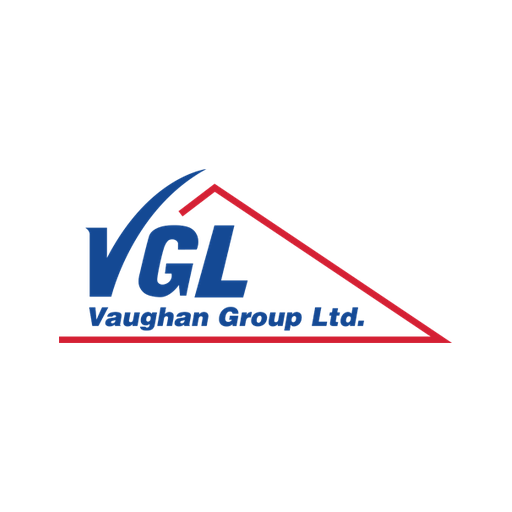
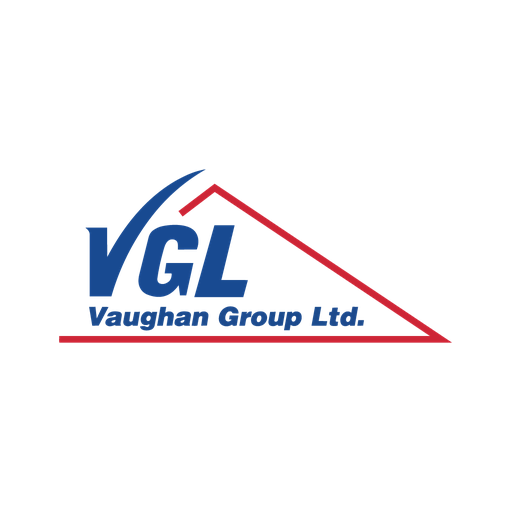
Crystal Lake and Vaughan from Diego's pack 03, add Danella; not published yet

Changed region(s): [[0.125, 0.5938, 0.8438, 0.6875], [0.3125, 0.5312, 0.3438, 0.5625], [0.1875, 0.4688, 0.2188, 0.5]]

diff --git a/DEMO updated/cinc-connect-demo-2026-updated/tenants/crystallake/config.js b/DEMO updated/cinc-connect-demo-2026-updated/tenants/crystallake/config.js
@@ -1,18 +1,20 @@
 // Crystal Lake Community Management prospect demo → served at /crystallake
 // Built by `vite build --mode crystallake` (see vite.config.js). Source code is never
 // edited: every string below is swapped at build time in src/**/*.{js,jsx,css}.
-// No Diego pack: logo + colors taken from the prospect's site (20/11/2026).
+// Logo + colors from Diego's pack (Custom Connect Demos 03, 20/11/2026); brand site: crystallakecm.com (Bend, OR).
+// DARK theme (Diego): page #333333, cards #474747, text #FFFFFF, accent sage #6C9E8F. Same dark
+// template as /cummings: theme variables are swapped one by one so fixed surfaces keep working.
 
-const PRIMARY    = '#005339'   // titles, icons, buttons
-const CARD       = '#005339'   // payment card
-const NAV_BAR    = '#FFFFFF'
-const NAV_ICON   = '#313131'
-const NAV_ACTIVE = '#005339'
+const PRIMARY    = '#6C9E8F'   // titles, icons, buttons (sage)
+const CARD       = '#4F7D70'   // payment card
+const NAV_BAR    = '#2A2A2A'
+const NAV_ICON   = '#FFFFFF'
+const NAV_ACTIVE = '#6C9E8F'
 
 export default {
   id: 'crystallake',
   title: 'Crystal Lake Community Management · Connect Demo',
-  themeColor: '#FFFFFF',
+  themeColor: '#333333',
   favicon: '/tenants/crystallake/icon.png',
 
   assets: {
@@ -61,20 +63,36 @@ export default {
     // HOA avatar
     ['/images/cinc-icon.png', '/tenants/crystallake/icon.png'],
 
-    // CINC palette → Crystal Lake Community Management palette (theme presets, :root defaults, fixed surfaces)
-    [/#006A52/gi, PRIMARY],
-    [/#00553F/gi, '#003F2B'],
-    [/#002D28/gi, PRIMARY],
-    [/#171B19/gi, '#313131'],
-    [/#E9EEEA/gi, '#FFFFFF'],
-    [/#D9E9E3/gi, '#DCEBE5'],
-    [/#CBCACD/gi, '#E2E2E2'],
-    // Cards: soft mint tint of the primary
-    ["'--res-bg2':    '#FFFFFF'", "'--res-bg2':    '#F1F6F4'"],
-    ['--res-bg2:    #FFFFFF;', '--res-bg2:    #F1F6F4;'],
-    // CSS filter that tints <img> icons Evergreen → primary
+    // CINC palette → Crystal Lake DARK palette
+    // Theme variables (index.css :root defaults + theme.js light preset)
+    ['--res-bg1:    #E9EEEA;', '--res-bg1:    #333333;'],
+    ['--res-bg2:    #FFFFFF;', '--res-bg2:    #474747;'],
+    ['--res-text:   #171B19;', '--res-text:   #FFFFFF;'],
+    ['--res-accent: #006A52;', '--res-accent: #6C9E8F;'],
+    ['--res-border: #CBCACD;', '--res-border: rgba(255,255,255,0.18);'],
+    // Global text color (login and anything rendered outside .resident-mode)
+    ['--text:         #171B19;', '--text:         #FFFFFF;'],
+    ["'--res-bg1':    '#E9EEEA'", "'--res-bg1':    '#333333'"],
+    ["'--res-bg2':    '#FFFFFF'", "'--res-bg2':    '#474747'"],
+    ["'--res-text':   '#171B19'", "'--res-text':   '#FFFFFF'"],
+    ["'--res-accent': '#006A52'", "'--res-accent': '#6C9E8F'"],
+    ["'--res-border': '#CBCACD'", "'--res-border': 'rgba(255,255,255,0.18)'"],
+    // Remaining hard-coded CINC colors: page bg → charcoal, fixed brand surfaces (PDF headers,
+    // illustrated cards) → deep sage, mint tints → soft sage, deep green logo color → charcoal
+    [/#E9EEEA/gi, '#333333'],
+    [/#006A52/gi, '#4F7D70'],
+    [/#00553F/gi, '#3E6458'],
+    [/#002D28/gi, '#333333'],
+    [/#D9E9E3/gi, '#E2EEEA'],
+    [/#CBCACD/gi, '#5A5A5A'],
+    // Dark theme contrast: secondary text is white at 30-60% → 75% (on #474747 cards
+    // 45% white is too faint); alert reds → light pink so they read on charcoal
+    [/color-mix\(in srgb, var\(--text\) (3\d|4\d|5\d|60)%, transparent\)/g, 'color-mix(in srgb, var(--text) 75%, transparent)'],
+    [/#E05C5C/gi, '#FFB4B4'],
+    [/#FF6B62/gi, '#FFB4B4'],
+    // CSS filter that tints <img> icons Evergreen → sage accent
     ['brightness(0) saturate(100%) invert(27%) sepia(87%) saturate(1530%) hue-rotate(143deg) brightness(93%) contrast(101%)',
-     'brightness(0) saturate(100%) invert(23%) sepia(13%) saturate(4306%) hue-rotate(122deg) brightness(100%) contrast(104%)'],
+     'brightness(0) saturate(100%) invert(58%) sepia(22%) saturate(463%) hue-rotate(111deg) brightness(96%) contrast(86%)'],
   ],
 
   // Appended to src/index.css
@@ -86,18 +104,18 @@ export default {
 .phone-frame .resident-nav__label { color: ${NAV_ICON}; }
 .phone-frame .resident-nav__item--active .resident-nav__icon { background: ${NAV_ACTIVE}; }
 .phone-frame .resident-nav__item--active .resident-nav__icon svg { color: #FFFFFF; }
-.phone-frame .resident-nav__item--active .resident-nav__label { color: #313131; }
+.phone-frame .resident-nav__item--active .resident-nav__label { color: #FFFFFF; }
 
 /* Payment card */
 .phone-frame .acct-card { background: ${CARD}; }
 
 body .layout-toggle { color: #FFFFFF; border-color: ${PRIMARY}; background: #1E1E1E; }
-body .layout-toggle:hover { border-color: #FFFFFF; }
+body .layout-toggle:hover { border-color: ${PRIMARY}; }
 
 .login-screen .login-logo-lockup { width: auto; height: auto; display: flex; flex-direction: column; align-items: center; }
-.login-screen .login-logo { position: static; width: 240px; height: auto; object-position: center; }
+.login-screen .login-logo { position: static; width: 250px; height: auto; object-position: center; }
 .login-screen .login-connecplus { display: none; }
-/* The login button uses the card color for its text; the light cards need white text instead */
-.login-screen .login-btn { color: #FFFFFF; }
+/* Dark theme: <img> icons drawn in CINC Ink → white */
+.login-screen .login-faceid { filter: brightness(0) invert(1); opacity: 0.85; }
 `,
 }

diff --git a/DEMO updated/cinc-connect-demo-2026-updated/tenants/danella/config.js b/DEMO updated/cinc-connect-demo-2026-updated/tenants/danella/config.js
@@ -1,0 +1,103 @@
+// Danella Realty & Management prospect demo → served at /danella
+// Built by `vite build --mode danella` (see vite.config.js). Source code is never
+// edited: every string below is swapped at build time in src/**/*.{js,jsx,css}.
+// Logo + colors from Diego's pack (Custom Connect Demos 03, 20/11/2026); brand site: danellarealty.com (Blue Bell, PA).
+
+const PRIMARY    = '#25517F'   // titles, icons, buttons
+const CARD       = '#25517F'   // payment card
+const NAV_BAR    = '#FFFFFF'
+const NAV_ICON   = '#313131'
+const NAV_ACTIVE = '#25517F'
+
+export default {
+  id: 'danella',
+  title: 'Danella Realty & Management · Connect Demo',
+  themeColor: '#FFFFFF',
+  favicon: '/tenants/danella/icon.png',
+
+  assets: {
+    'src/images/splash-bg.jpg':  'public/tenants/danella/splash.jpg',
+    'src/images/login-logo.svg': 'public/tenants/danella/logo.png',
+  },
+
+  // Ordered: specific strings before generic ones
+  replace: [
+    // Community + streets (fictional HOA — not one of the prospect's real communities)
+    ['Cardinal Hills Drive', 'Skippack Ridge Drive'],
+    ['Cardinal Hills Dr',    'Skippack Ridge Dr'],
+    ['Cardinal Point Road',  'Skippack Point Road'],
+    ['Cardinal Point Rd',    'Skippack Point Rd'],
+    ['Cardinal Way',         'Skippack Way'],
+    ['Cardinal Heights',     'Skippack Heights'],
+    ['Pinecrest Loop',       'Laurel Loop'],
+    ['Hillcrest Loop',       'Hemlock Loop'],
+    ['Ridgeline Pass',       'Perkiomen View Pass'],
+    ['Cardinal Hills',       'Skippack Ridge'],
+    ['Cardinal ',            'Skippack '],
+    ['cardinalhills',        'skippackridge'],
+    ['cardinalrealty',       'skippackrealty'],
+    [/\bCH([:-])(\d)/g,      'SK$1$2'],
+
+    // Management company
+    ['East Management',      'Danella Realty & Management'],
+
+    // Cities
+    ['Miami, FL 33130',      'Blue Bell, PA 19422'],
+    ['Miami FL 33130',       'Blue Bell PA 19422'],
+    [/Miami, FL 331(\d\d)/g, 'Blue Bell, PA 194$1'],
+    ['Los Altos, CA 94023',  'Plymouth Meeting, PA 19462'],
+    ['Saratoga, CA 95070',   'Lansdale, PA 19446'],
+    ['Campbell, CA 95008',   'Ambler, PA 19002'],
+    ['Santa Clara, CA 95051','Norristown, PA 19401'],
+    ['San Jose, CA 95112',   'King of Prussia, PA 19406'],
+    ['Los Gatos, CA 95032',  'Conshohocken, PA 19428'],
+    // Blog / Market Index location (source canon: Miami-Dade, South Florida, 305)
+    ['Miami-Dade County',    'Montgomery County'],
+    ['South Florida continues', 'Greater Philadelphia continues'],
+    ['South Florida',        'Greater Philadelphia'],
+    ['(305) 555-0192',       '(610) 555-0192'],
+    ['305.555.',            '610.555.'],   // ACC/WO/vendor phones in Tasks.jsx
+
+    // HOA avatar
+    ['/images/cinc-icon.png', '/tenants/danella/icon.png'],
+
+    // CINC palette → Danella palette (theme presets, :root defaults, fixed surfaces)
+    [/#006A52/gi, PRIMARY],
+    [/#00553F/gi, '#1C3F63'],
+    [/#002D28/gi, PRIMARY],
+    [/#171B19/gi, '#313131'],
+    [/#E9EEEA/gi, '#FFFFFF'],
+    [/#D9E9E3/gi, '#E1E9F2'],
+    [/#CBCACD/gi, '#E2E2E2'],
+    // Cards ("element" color)
+    ["'--res-bg2':    '#FFFFFF'", "'--res-bg2':    '#FAFAFA'"],
+    ['--res-bg2:    #FFFFFF;', '--res-bg2:    #FAFAFA;'],
+    // CSS filter that tints <img> icons Evergreen → primary
+    ['brightness(0) saturate(100%) invert(27%) sepia(87%) saturate(1530%) hue-rotate(143deg) brightness(93%) contrast(101%)',
+     'brightness(0) saturate(100%) invert(22%) sepia(74%) saturate(942%) hue-rotate(180deg) brightness(94%) contrast(82%)'],
+  ],
+
+  // Appended to src/index.css
+  css: `
+/* ── danella tenant overrides (prefixed for specificity over per-screen CSS) ── */
+.phone-frame .resident-nav__bg,
+.phone-frame .resident-nav-v2 { background: ${NAV_BAR}; }
+.phone-frame .resident-nav__icon svg,
+.phone-frame .resident-nav__label { color: ${NAV_ICON}; }
+.phone-frame .resident-nav__item--active .resident-nav__icon { background: ${NAV_ACTIVE}; }
+.phone-frame .resident-nav__item--active .resident-nav__icon svg { color: #FFFFFF; }
+.phone-frame .resident-nav__item--active .resident-nav__label { color: #313131; }
+
+/* Payment card */
+.phone-frame .acct-card { background: ${CARD}; }
+
+body .layout-toggle { color: #FFFFFF; border-color: ${PRIMARY}; background: #1E1E1E; }
+body .layout-toggle:hover { border-color: #FFFFFF; }
+
+.login-screen .login-logo-lockup { width: auto; height: auto; display: flex; flex-direction: column; align-items: center; }
+.login-screen .login-logo { position: static; width: 200px; height: auto; object-position: center; margin-top: 18px; }
+.login-screen .login-connecplus { display: none; }
+/* The login button uses the card color for its text; the light cards need white text instead */
+.login-screen .login-btn { color: #FFFFFF; }
+`,
+}

diff --git a/DEMO updated/cinc-connect-demo-2026-updated/tenants/vaughan/config.js b/DEMO updated/cinc-connect-demo-2026-updated/tenants/vaughan/config.js
@@ -1,13 +1,13 @@
 // Vaughan Group prospect demo → served at /vaughan
 // Built by `vite build --mode vaughan` (see vite.config.js). Source code is never
 // edited: every string below is swapped at build time in src/**/*.{js,jsx,css}.
-// No Diego pack: logo + colors taken from the prospect's site (20/11/2026).
+// Logo + colors from Diego's pack (Custom Connect Demos 03, 20/11/2026); brand site: vaughangroupltd.com (Dublin, OH).
 
-const PRIMARY    = '#144994'   // titles, icons, buttons
-const CARD       = '#144994'   // payment card
+const PRIMARY    = '#C3353B'   // titles, icons, buttons
+const CARD       = '#144994'   // payment card (navy from the VGL logo)
 const NAV_BAR    = '#FFFFFF'
 const NAV_ICON   = '#313131'
-const NAV_ACTIVE = '#144994'
+const NAV_ACTIVE = '#C3353B'
 
 export default {
   id: 'vaughan',
@@ -63,18 +63,18 @@ export default {
 
     // CINC palette → Vaughan Group palette (theme presets, :root defaults, fixed surfaces)
     [/#006A52/gi, PRIMARY],
-    [/#00553F/gi, '#0F3873'],
+    [/#00553F/gi, '#A02A2F'],
     [/#002D28/gi, PRIMARY],
-    [/#171B19/gi, '#313131'],
+    [/#171B19/gi, '#484848'],
     [/#E9EEEA/gi, '#FFFFFF'],
-    [/#D9E9E3/gi, '#E3EAF5'],
+    [/#D9E9E3/gi, '#F7E1E2'],
     [/#CBCACD/gi, '#E2E2E2'],
-    // Cards: soft blue-gray tint of the primary
-    ["'--res-bg2':    '#FFFFFF'", "'--res-bg2':    '#EEF2F7'"],
-    ['--res-bg2:    #FFFFFF;', '--res-bg2:    #EEF2F7;'],
+    // Cards ("element" color)
+    ["'--res-bg2':    '#FFFFFF'", "'--res-bg2':    '#F6F6F6'"],
+    ['--res-bg2:    #FFFFFF;', '--res-bg2:    #F6F6F6;'],
     // CSS filter that tints <img> icons Evergreen → primary
     ['brightness(0) saturate(100%) invert(27%) sepia(87%) saturate(1530%) hue-rotate(143deg) brightness(93%) contrast(101%)',
-     'brightness(0) saturate(100%) invert(17%) sepia(73%) saturate(2238%) hue-rotate(204deg) brightness(98%) contrast(90%)'],
+     'brightness(0) saturate(100%) invert(25%) sepia(61%) saturate(5706%) hue-rotate(345deg) brightness(91%) contrast(86%)'],
   ],
 
   // Appended to src/index.css

diff --git a/DEMO updated/cinc-connect-demo-2026-updated/CLAUDE.md b/DEMO updated/cinc-connect-demo-2026-updated/CLAUDE.md
@@ -135,13 +135,14 @@ Ojo: `ViolationCardContent` en Tasks.jsx mapea campos del task al objeto `violat
   | `cedar` (5195) | Cedar Management, Fridley MN | Northwood Lakes HOA · `NL:` | Basswood, Spruce, Mississippi View | accent `#195CA0`, fondo crema `#FCF9EC`, cards `#F4F0DD` (crema de Diego, excepción a la regla de crema del demo base); ícono = las casitas; login a 200px; Anoka County / the Twin Cities / (763) |
   **Entregados**: McGill y Vintage (18/11/2026), Metro y Around the Clock (19/11/2026). **Listos sin publicar** (en el repo, fuera de `build`/`vercel.json`): TMG y Cedar (19/11). Pack 02 completo. Cummings y Vertex: armados y en el repo, sin publicar (20/11).
   Al generar íconos: los PNG de Diego ya traen transparencia (no quitar el blanco: el reloj/casas tienen blanco interno) y el monograma se corta en la franja vacía sobre el texto, no a un % fijo. Puertos 5190/5191 los usa otro proyecto (sandbox-proto).
-  Ojo: el footer del PDF de ACC dice `Miami FL 33130` (sin coma); todo config de tenant necesita también ese reemplazo (además de `Miami, FL 33130`). Ya está en todos.
-- **Cierres de noviembre sin pack de Diego** (20/11/2026; Camilo ya le pidió el material a Diego, hay que comparar y reemplazar cuando llegue). Armados con logo y colores de sus sitios, desde el template de Metro, sin publicar:
+  Ojo: el footer del PDF de ACC dice `Miami FL 33130` (sin coma); todo config de tenant necesita también ese reemplazo (además de `Miami, FL 33130`). Ya está en todos. Igual con los teléfonos `305.555.XXXX` de Tasks.jsx (ACC/WO/vendors): cada config tiene `['305.555.', '<area>.555.']` (20/11).
+- **Pack 03 de Diego** (`Custom Demos/Custom Connect Demos 03/03/`, no se sube al repo; 20/11/2026): Crystal Lake, Vaughan, Danella, Spaces y Wright. Crystal Lake y Vaughan se habían armado antes con assets de sus sitios y se rehicieron con el pack. Spaces y Wright (ya entregados el 17/11 con colores del sitio) NO se cambiaron: ventas ya tiene esos links; decidir con Camilo si se actualizan.
   | id (puerto dev) | Prospecto | HOA ficticia · cuentas | Calles extra (Loop/Loop/Pass) | Paleta |
   |---|---|---|---|---|
-  | `crystallake` (5196) | Crystal Lake Community Management, Bend OR | Tumalo Ridge HOA · `TR:` | Ponderosa, Manzanita, Deschutes River View | verde `#005339` (del sitio), fondo blanco, cards menta `#F1F6F4`; logo = wordmark SVG del sitio recoloreado de blanco a verde con Chrome headless, ícono = el lago circular del favicon, splash = lago + wordmark; Deschutes County / Central Oregon / (541) |
-  | `vaughan` (5197) | Vaughan Group, Dublin OH | Olentangy Glen HOA · `OG:` | Buckeye, Hackberry, Scioto River View | navy `#144994` (rojo `#D42034` del logo sin usar en UI), fondo blanco, cards `#EEF2F7`; logo VGL del sitio (512px, chico), login a 200px; Franklin County / Central Ohio / (614) |
-  Fusion PMG (cierra 28/11) queda pendiente: no tiene web identificable (hay un "Fusion PMG" en Hallandale sin confirmar), se espera el material de Diego.
+  | `crystallake` (5196) | Crystal Lake Community Management, Bend OR (cierra 30/11) | Tumalo Ridge HOA · `TR:` | Ponderosa, Manzanita, Deschutes River View | **tema oscuro** (template de Cummings): fondo `#333333`, cards `#474747`, accent salvia `#6C9E8F`, card de pagos `#4F7D70`; logo blanco de Diego, ícono = lago del favicon del sitio, splash = lago + wordmark sobre `#333333`; Deschutes County / Central Oregon / (541) |
+  | `vaughan` (5197) | Vaughan Group, Dublin OH (cierra 30/11) | Olentangy Glen HOA · `OG:` | Buckeye, Hackberry, Scioto River View | accent rojo `#C3353B`, cards `#F6F6F6`, texto `#484848`, card de pagos navy `#144994` (del logo VGL); login a 200px; Franklin County / Central Ohio / (614) |
+  | `danella` (5198) | Danella Realty & Management, Blue Bell PA (cierra 18/12) | Skippack Ridge HOA · `SK:` | Laurel, Hemlock, Perkiomen View | accent `#25517F`, cards `#FAFAFA`, fondo blanco; ícono = palabra DANELLA cortada en la franja vacía; Montgomery County / Greater Philadelphia / (610) |
+  Fusion PMG (cierra 28/11) sigue pendiente: no vino en el pack 03 y no tiene web identificable.
 - **Ubicación en blogs / Market Index**: el canon del demo base es `Miami-Dade County`, `South Florida` y el teléfono de Sarah `(305) 555-0192`; cada tenant los reemplaza por su condado, región y código de área (bloque "Blog / Market Index location" en su config). Incluirlo en cada prospecto nuevo.
 - Para un prospecto nuevo: copiar `tenants/krj/`, ajustar config + assets, agregar `&& vite build --mode <id>` al script `build` y las rewrites en `vercel.json`.
 
